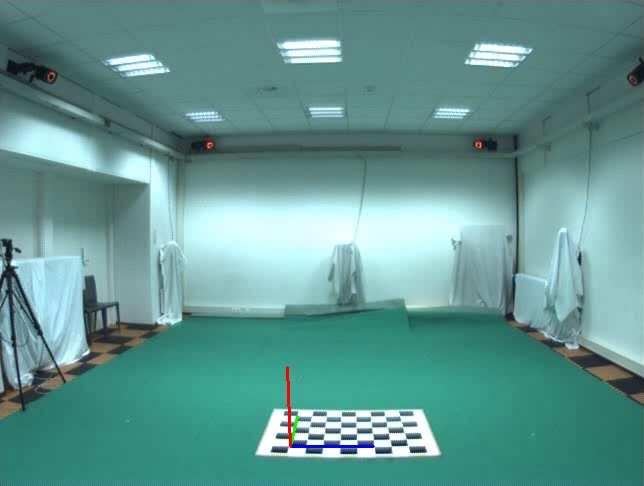
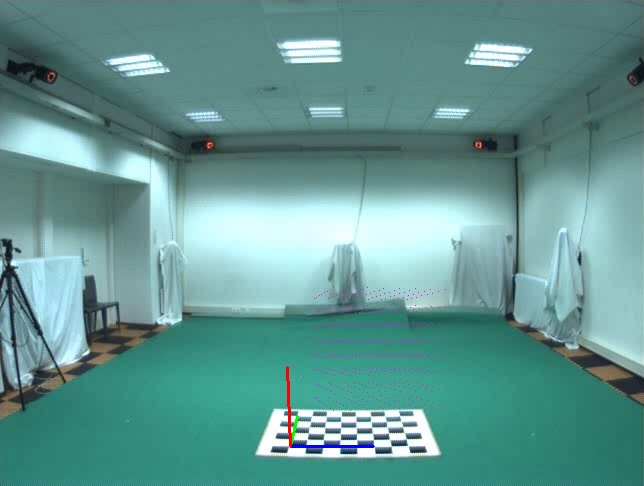
a

Changed region(s): [[0.4969, 0.5864, 0.6522, 0.8333]]

diff --git a/assignment.py b/assignment.py
@@ -28,7 +28,6 @@ def set_voxel_positions(width, height, depth):
         for y in range(height):
             for z in range(depth):
                 data0.append([x, y, z])
-    print(data0)
 
     data0 = np.float32(data0)
 
@@ -157,8 +156,7 @@ def getExtrinsics(Cam):
     objp[:, :2] = np.mgrid[0:w, 0:h].T.reshape(-1, 2)
 
     # get the extrinsic parameters
-    retval, rvec, tvec = cv2.solvePnP(objectPoints=objp, imagePoints=imageCorners, cameraMatrix=mtx,
-                                      distCoeffs=dist)
+    retval, rvec, tvec = cv2.solvePnP(objp, imageCorners, mtx, dist)
     R, _ = cv2.Rodrigues(rvec)  # change rotation vector to matrix
     T, _ = cv2.Rodrigues(tvec)  # change translation vector to matrix
 
@@ -172,6 +170,28 @@ def getExtrinsics(Cam):
     img = cv2.imread('./data/cam{}/capture.jpg'.format(Cam))
     axis = np.float32([[5,0,0], [0,5,0], [0,0,5]])
     axispts, jac = cv2.projectPoints(axis, rvec, tvec, mtx, dist)
+
+    data0 = []
+    for x in range(8):
+        for y in range(8):
+            for z in range(8):
+                data0.append([x, y, z])
+    data0 = np.float32(data0)
+
+    print(data0)
+
+    orjpts, jac = cv2.projectPoints(data0, rvec, tvec, mtx, dist)
+    
+    orjpts = np.int32(orjpts)
+    print(orjpts)
+
+    for i in range(512):
+        try:
+            img[orjpts[i][0][0]][orjpts[i][0][1]][0] = 255
+            img[orjpts[i][0][0]][orjpts[i][0][1]][1] = 0
+            img[orjpts[i][0][0]][orjpts[i][0][1]][2] = 255  
+        except:
+            continue
 
     p1.draw_axis(img, np.int32(imageCorners[0][0]), axispts)
     cv2.imwrite('./data/cam{}/captureXYZ.jpg'.format(Cam), img)
@@ -339,8 +359,10 @@ def bgSubtraction():
         backgroundSub(i+1)
 
 if __name__ == '__main__':
+    for i in range(4):
+        getExtrinsics(i+1)
     # getCameraParam()          # task1
     # bgSubtraction()           # task2
     # get_cam_rotation_matrices()
     # get_cam_positions()
-    set_voxel_positions(16, 8, 16)
+    # set_voxel_positions(16, 8, 16)

diff --git a/p1.py b/p1.py
@@ -219,10 +219,10 @@ def draw_cube(img, imgpts, shadowpts):
     img = cv2.drawContours(img, [imgpts[:4]], -1, (29,133,223), -2)
 
     # Draw shadow
-    shadowpts = np.int32(shadowpts).reshape(-1, 2)
-    for i, j in zip(range(4), range(4, 8)):
-        img = cv2.line(img, tuple(shadowpts[i]), tuple(shadowpts[j]), (120, 120, 120), 2)
-    img = cv2.drawContours(img, [shadowpts[4:]], -1, (120, 120, 120), 2)
+    # shadowpts = np.int32(shadowpts).reshape(-1, 2)
+    # for i, j in zip(range(4), range(4, 8)):
+    #     img = cv2.line(img, tuple(shadowpts[i]), tuple(shadowpts[j]), (120, 120, 120), 2)
+    # img = cv2.drawContours(img, [shadowpts[4:]], -1, (120, 120, 120), 2)
 
     # Draw pillars
     for i, j in zip(range(4), range(4, 8)):
